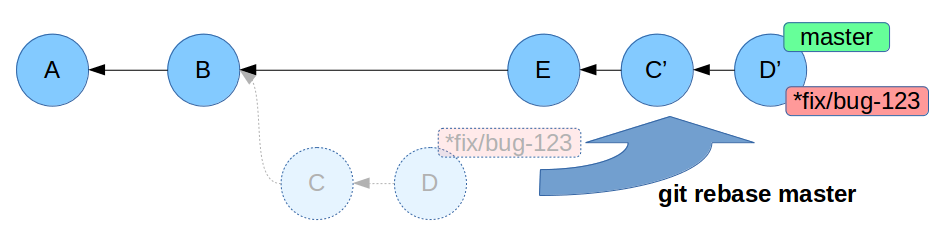
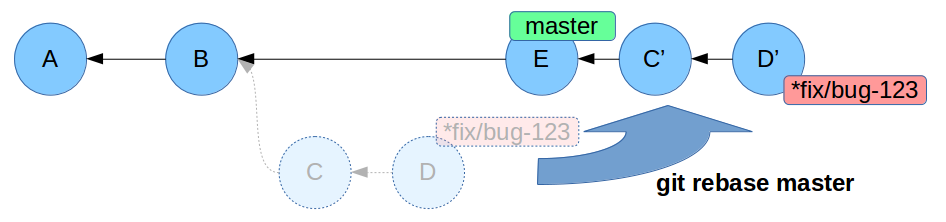
fix rebase image

diff --git a/git-crash-course.md b/git-crash-course.md
@@ -768,8 +768,7 @@ Poniamoci nella stessa situazione divergente dell'esempio in cui abbiamo usato m
 ### Cosa è successo?
 
 Abbiamo preso tutti i commit di fix/bug-123 e li abbiamo ri-applicati su master, che nel mentre era andato avanti.
-
-Tutti i commit specifici di fix/bug-123 sono cambiati.
+Tutti i commit specifici di fix/bug-123 sono cambiati. Volendo, ora si può fare un merge fast-forward in master.
 
 -----
 
@@ -783,7 +782,7 @@ Quando dovete spostare più commit e/o per porvi nella condizione di fare un mer
 
 ### Quando NON usarlo?
 
-Un rebase modifica i commit originali: questo va evitato se quei commit sono già stati pushati ed altri sviluppatori li stanno usando come base per il proprio lavoro.
+Un rebase modifica i commit originali del branch: questo va evitato se quei commit sono già stati pushati ed altri sviluppatori li stanno usando come base per il proprio lavoro.
 
 ---
 
@@ -829,6 +828,15 @@ Ad esempio quando non si vuole includere in un commit una riga di debug, che per
 
 -----
 
+## Creare e applicare patch
+
+è possibile creare e riapplicare una patch usando i comandi:
+
+    $ git format-patch [refs]
+    $ git apply patch-file.diff
+
+-----
+
 ## Mettere il lavoro da parte: stash
 
 Mettere da parte il lavoro nella working directory senza committare, e mostrare le modifiche stashed:
@@ -845,16 +853,7 @@ Riapplicare una modifica messa in stash, ed eliminarne uno:
 
 Ad esempio quando vogliamo passare ad un altro branch, accantonando le modifiche nella working directory.
 
----
-
-## Creare e applicare patch
-
-è possibile creare e riapplicare una patch usando i comandi:
-
-    $ git format-patch [refs]
-    $ git apply patch-file.diff
-
----
+-----
 
 ## Storico dei cambiamenti: reflog
 
